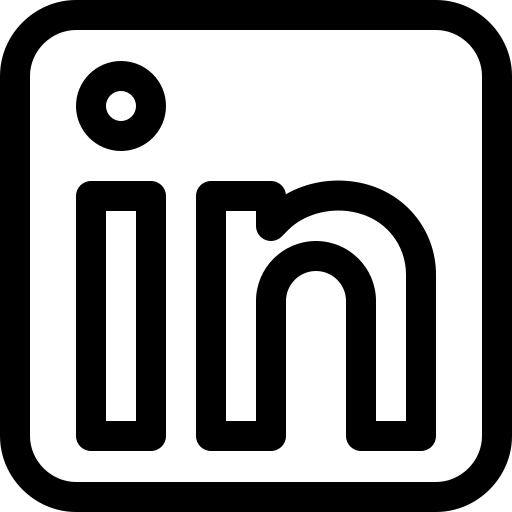
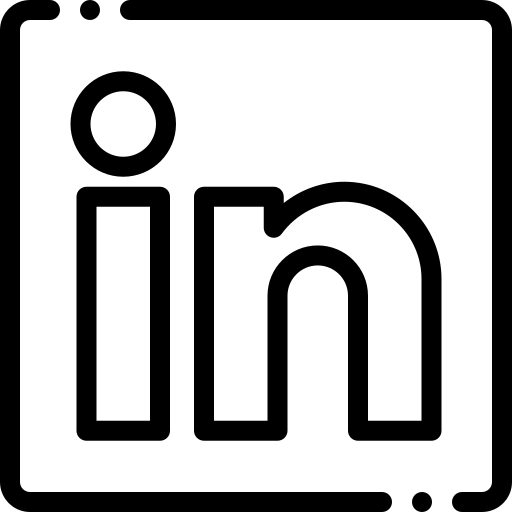
Updated Skills & Contact

diff --git a/index.html b/index.html
@@ -6,7 +6,7 @@
     <link rel="icon" href="img/favicon-32x32.png" type="image/png"/>
     <meta name="viewport" content="width=device-width, initial-scale=1.0"/>
     <link rel="stylesheet" href="style.css"/>
-    <title>Jose Mata</title>
+    <title>Jose Mata | Portfolio</title>
 </head>
 
 <body>
@@ -21,7 +21,7 @@
             <h1 class="name-text">Jose</h1>
             <div class="social-icons">
                 <div class="social-icon">
-                    <a href="https://www.linkedin.com/in/jose-i-mata" target="_blank"><img src="img/linkedin (1).png" alt="linkedin"/></a>
+                    <a href="https://www.linkedin.com/in/jose-i-mata" target="_blank"><img src="img/linkedin.png" alt="linkedin"/></a>
                 </div>
                 <div class="social-icon">
                     <a href="https://github.com/Jose-i-Mata" target="_blank"><img src="img/github.png" alt="github"/></a>
@@ -33,31 +33,122 @@
     <!-- Skills Section-->
     <section id="skills">
         <div class="skills container">
+
             <h1 class="section-title">Skills</h1>
+
             <div class="col">
-                <div class="skillset-one">
-                    <div class="skillset-item">
 
+                <div class="skillset-col">
+                    <div class="col-name">
+                        <h1>Languages</h1>
+                    </div>
+
+                    <div class="skillset-item">
+                        <div class="skillset-icon">
+                            <img src="img/skills/python.png" alt="icon of python"/>
+                        </div>
+                        <p class="skill-title">Python</p>
                     </div>
                     <div class="skillset-item">
-
+                        <div class="skillset-icon">
+                            <img src="img/skills/java.png" alt="icon of java"/>
+                        </div>
+                        <p class="skill-title">Java</p>
                     </div>
                     <div class="skillset-item">
+                        <div class="skillset-icon">
+                            <img src="img/skills/c.png" alt="icon of c"/>
+                        </div>
+                        <p class="skill-title">C</p>                    
+                    </div>
+                    <div class="skillset-item">
+                        <div class="skillset-icon">
+                            <img src="img/skills/java-script.png" alt="icon of javascript"/>
+                        </div>
+                        <p class="skill-title">JavaScript</p>
+                    </div>
+                </div>
 
+                <div class="skillset-col">
+                    <div class="col-name">
+                        <h1>Technologies</h1>
+                    </div>
+
+                    <div class="skillset-item">
+                        <div class="skillset-icon">
+                            <img src="img/skills/html.png"/>
+                        </div>
+                        <p class="skill-title">HTML</p>
+                    </div>
+
+                    <div class="skillset-item">
+                        <div class="skillset-icon">
+                            <img src="img/skills/css.png"/>
+                        </div>
+                        <p class="skill-title">CSS</p>
+                    </div>
+
+                    <div class="skillset-item">
+                        <div class="skillset-icon">
+                            <img src="img/skills/git.png"/>
+                        </div>
+                        <p class="skill-title">Git</p>
                     </div>
 
                 </div>
-                <div class="skillset-two">
 
-                </div>
-                <div class="skillset-three">
+                <div class="skillset-col">
                     <div class="education">
+                        <div class="col-name">
+                            <h1>Education</h1>
+                        </div>
+
+                        <div class="skillset-icon">
+                            <img src="img/graduate.png" alt="image of graduation hat"/>
+                        </div>
+                        <div class="education-text">
+                            <h1>BSc Computer Science</h1>
+                            <p>Rice University</p>
+                            <p>(2020-2024)</p>
+                        </div>
 
                     </div>
                     <div class="soft-skills">
+                        <div class="col-name">
+                            <h1>Additional Skills</h1>
+                        </div>
+
+                        <div class="skillset-item">
+                            <div class="skillset-icon">
+                                <img src="img/skills/checklist.png"/>
+                            </div>
+                            <p class="skill-title">Testing</p>
+                        </div>
+
+                        <div class="skillset-item">
+                            <div class="skillset-icon">
+                                <img src="img/skills/brain.png"/>
+                            </div>
+                            <p class="skill-title">Design Thinking</p>
+                        </div>
+
+                        <div class="skillset-item">
+                            <div class="skillset-icon">
+                                <img src="img/skills/algorithm.png"/>
+                            </div>
+                            <p class="skill-title">Data Structures & Algorithms</p> 
+                       </div>
+
+                        <div class="skillset-item">
+                            <div class="skillset-icon">
+                                <img src="img/skills/bug.png"/>
+                            </div>
+                            <p class="skill-title">Debugging</p>
+                         </div>
 
                     </div>
                 </div>
+
             </div>
         </div>
     </section>
@@ -116,7 +207,7 @@
                 </div>
                 <div class="contact-item">
                     <div class="social-icon">
-                        <a href="https://www.linkedin.com/in/jose-i-mata" target="_blank"><img src="img/linkedin (1).png" alt="linkedin"/></a>
+                        <a href="https://www.linkedin.com/in/jose-i-mata" target="_blank"><img src="img/linkedin.png" alt="linkedin"/></a>
                     </div>
                     <div class="social-text">
                         <h1>LinkedIn</h1>

diff --git a/style.css b/style.css
@@ -31,6 +31,10 @@ html {
     letter-spacing: 0.01rem;
     text-align: center;
 
+    margin-bottom: 40px;
+
+
+
 }
 
 img {
@@ -56,7 +60,7 @@ img {
 .cta:hover{
 }
 
-h1, h2, p {
+h1, h2, h3, p {
     display: inline-block;
     padding: none;
     letter-spacing: 0.005rem;
@@ -92,7 +96,6 @@ p{
     justify-content: center;
     align-content: center;
     gap: 10px;
-    background-color: white;
 }
 
 #home .home .social-icon {
@@ -107,6 +110,96 @@ p{
 
 #home .home .social-item img:hover{
 }
+
+/* Skills Section ------------------------------------------------------------------------------------------*/
+
+#skills .skills {
+    flex-direction: column;
+    max-width: 1200px;
+    margin: 0 auto;
+    padding: 100px 20px;
+
+    border: 1px solid black;
+}
+
+
+#skills .col {
+    display: flex;
+    flex-direction: row;
+    flex-wrap: wrap;
+
+    align-items: flex-start;
+    justify-content: center;
+    align-content: center;
+
+    border: 1px solid black;
+}
+
+
+#skills .col .skillset-col .col-name h1 {
+    font-size: 2rem;
+    font-weight: 400;
+}
+
+
+#skills .col .skillset-col {
+
+    display: flex;
+    flex-direction: column;
+
+
+    width: 300px;
+
+    margin: 20px;
+    margin-top: 0px;
+
+
+    border-radius: 6px;
+    border: 2px solid black;  
+}
+
+#skills .col .skillset-col:nth-child(2n) {
+    margin-left: 10px;
+    margin-right: 10px;
+}
+
+#skills .col .skillset-col:nth-child(3) {
+    display: flex;
+    flex-direction: column;
+}
+
+#skills .col .skillset-col:nth-child(3) .education {
+    border: 3px solid crimson;
+}
+
+#skills .col .skillset-col:nth-child(3) .soft-skills {
+    border: 3px solid purple;
+}
+
+#skills .col .skillset-col .skillset-item {
+    display: flex;
+    flex-direction: row;
+
+    align-items: center;
+    justify-content: space-evenly;
+
+    padding: 20px;
+
+    margin-top: 20px;
+    border-radius: 6px; 
+    border: 2px solid black
+}
+
+#skills .col .skillset-col .skillset-item .skill-title {
+
+    
+}
+
+#skills .col .skillset-col .skillset-icon {
+    width: 55px;
+    height: 55px;
+}
+
 
 
 /* About Section ------------------------------------------------------------------------------------------*/
@@ -128,8 +221,6 @@ p{
     align-items: center;
     justify-content: center;
     align-content: right;
-
-    margin-top: 40px;
 
 }
 
@@ -165,7 +256,6 @@ p{
     margin-bottom: 15px;
     font-size: 2rem;
     font-weight: 400;
-
 }
 
 #about .col-right .cta {
@@ -183,7 +273,6 @@ p{
     max-width: 1200px;
     margin: 0 auto;
     padding: 100px 20px;
-
 }
 
 #contact .contact-items {
@@ -195,9 +284,8 @@ p{
     justify-content: center;
     align-content: center;
 
+    
     max-width: 1200px;
-
-    padding-top: 40px;
 
 }
 
@@ -208,12 +296,18 @@ p{
 
     align-items: center;
     align-content: center;
-    justify-content: center;
+    justify-content: space-evenly;
 
     margin: 20px;
+    margin-top: 0px;
     padding: 20px;
     border-radius: 6px;
     border: 2px solid black;
+}
+
+#contact .contact-items .contact-item:nth-child(2n) {
+    margin-left: 10px;
+    margin-right: 10px;
 }
 
 #contact .contact-item .social-icon {
@@ -229,18 +323,15 @@ p{
     align-items: flex-start;
     justify-content: center;
 
-    margin-left: 40px;
 }
 
 #contact .contact-item .social-text h1 {
     font-size: 2rem;
     font-weight: 400;
-
 }
 
 #contact .contact-item .social-text p {
     margin-top: 15px;
     color: black;
     text-decoration: none;
-
 }
